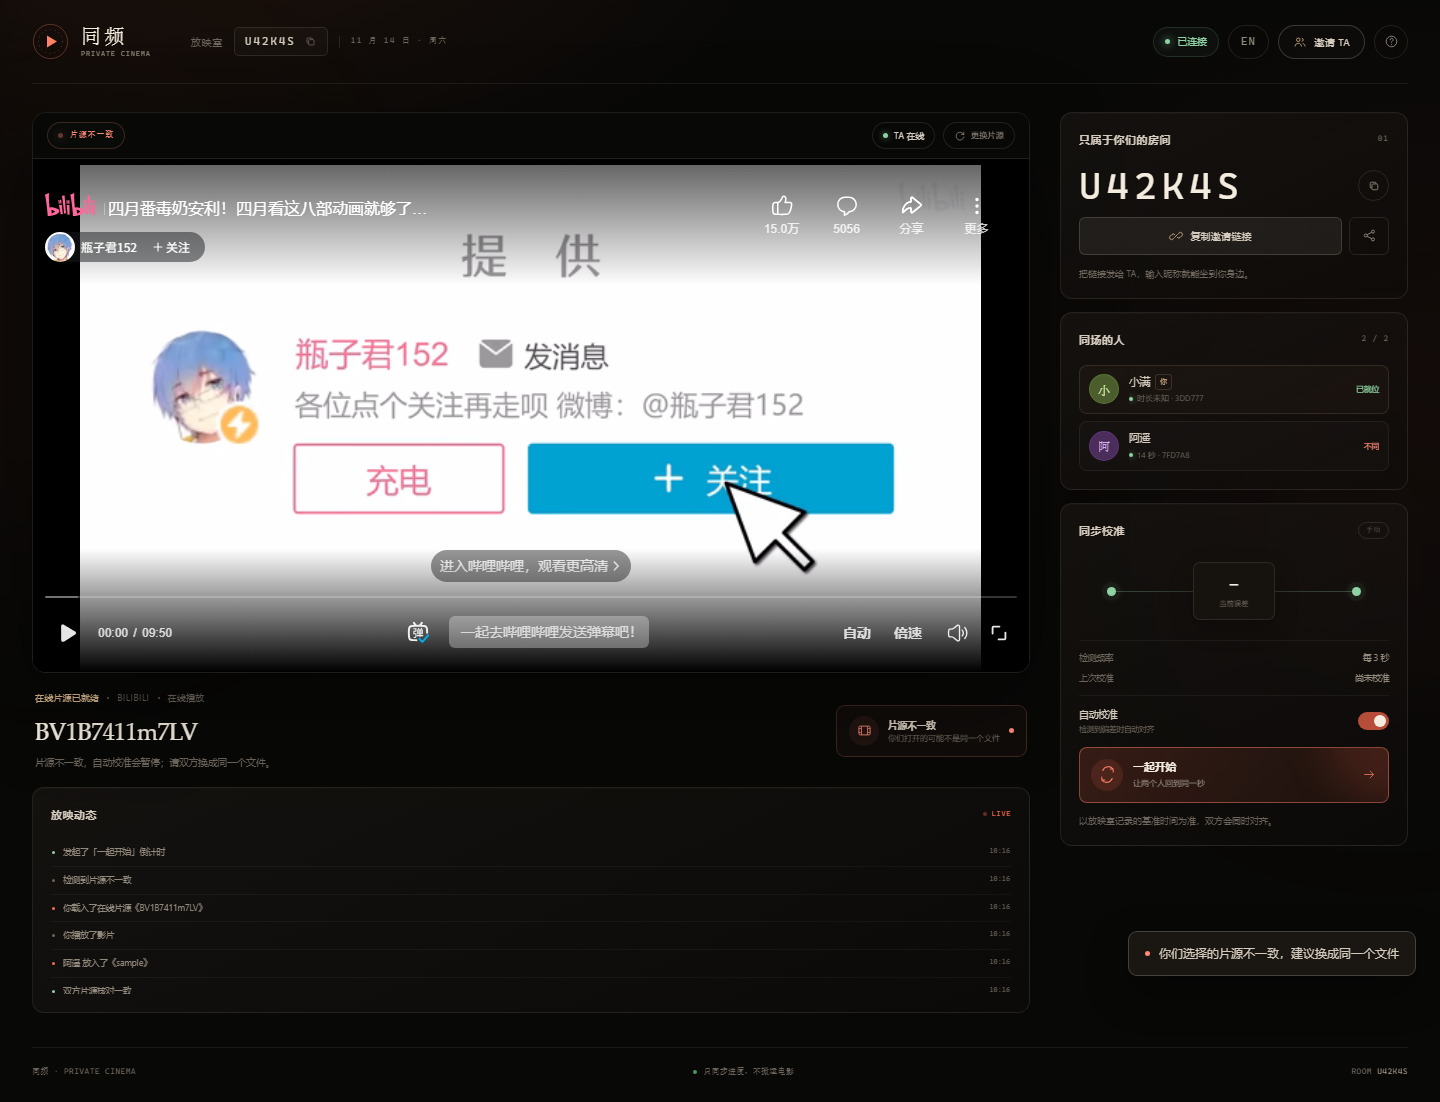
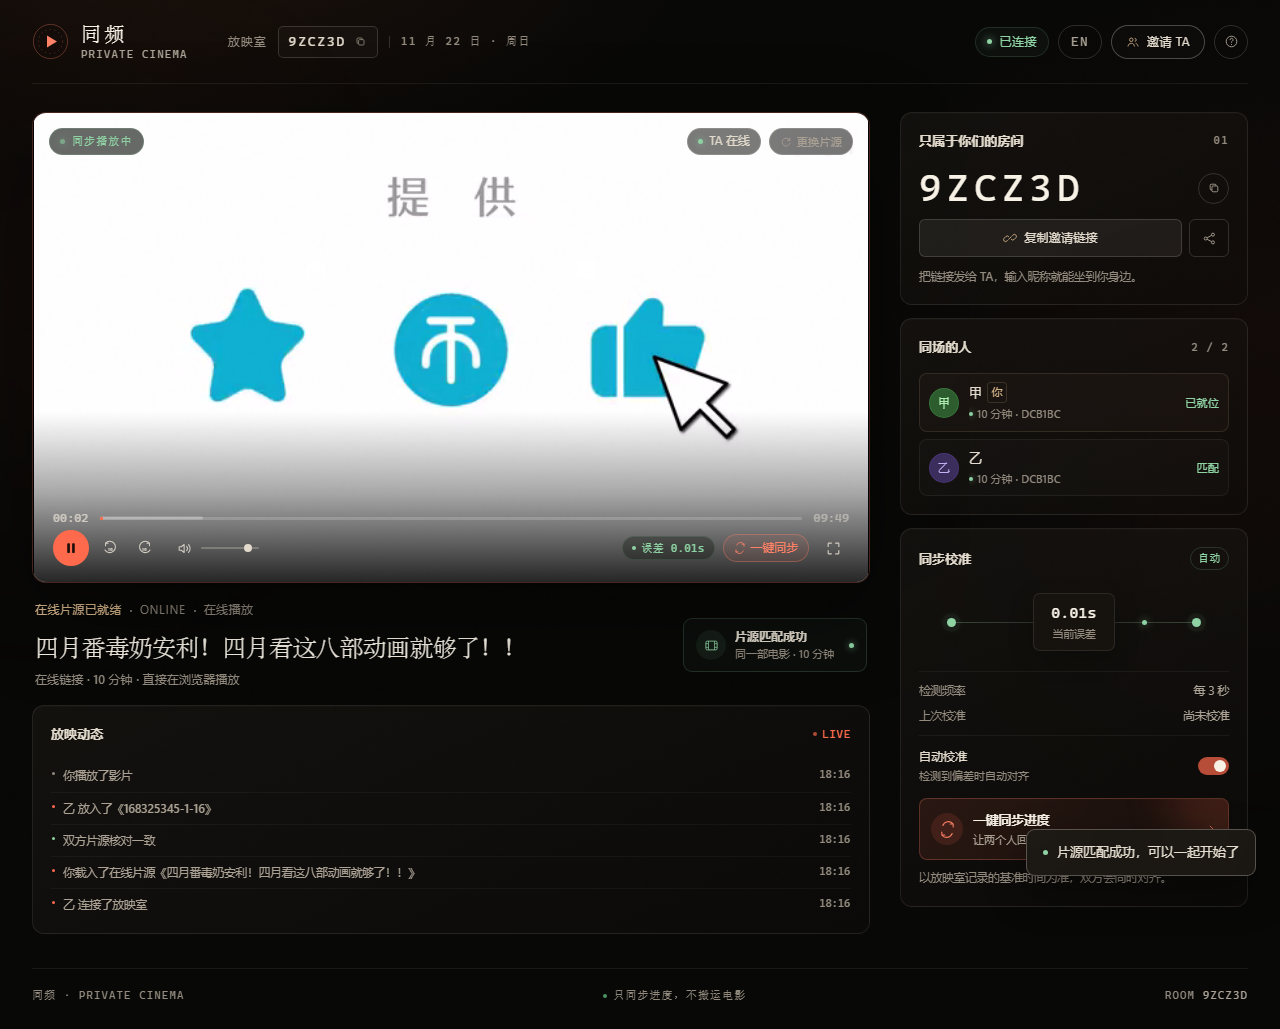
Bilibili full sync via official html5 API (no proxy, zero server bandwidth)
- Server resolves Bilibili links (BV/av/b23.tv short links, multi-page)
  through Bilibili own html5 playurl API with a cached visitor cookie:
  only ~20KB of JSON metadata per resolve, the returned mp4 is
  Referer-free with open CORS, so browsers stream it directly from
  Bilibili CDN - no video traffic touches our server
- Bilibili links now route to the resolver instead of the iframe embed,
  upgrading them from countdown-only to full play/pause/seek/auto-sync
- Resolution capped at 720p (free-tier API limit), documented in README
- Tests: clean-room two-browser flow verifies resolve, auto-adoption,
  real playback sync (~0.06s drift); b23.tv routing hint covered

diff --git a/tools/test-features.js b/tools/test-features.js
@@ -124,7 +124,11 @@ function startMediaServer() {
 
     await pageA.fill('#source-url', 'https://www.bilibili.com/video/BV1B7411m7LV');
     await sleep(250);
-    check('bilibili link detected', /Bilibili/.test(await pageA.locator('#source-platform').innerText()), await pageA.locator('#source-platform').innerText());
+    check('bilibili routes to full sync', /解析直链/.test(await pageA.locator('#source-platform').innerText()), await pageA.locator('#source-platform').innerText());
+
+    await pageA.fill('#source-url', 'https://b23.tv/abc123');
+    await sleep(250);
+    check('b23 short link accepted', /解析直链|http/i.test(await pageA.locator('#source-platform').innerText()), await pageA.locator('#source-platform').innerText());
 
     await pageA.fill('#source-url', 'https://www.netflix.com/watch/80100172');
     await sleep(250);
@@ -181,26 +185,58 @@ function startMediaServer() {
 
     check('no browser errors', errors.length === 0, errors.join(' | '));
 
-    /* ---------- 平台嵌入 + 一起开始倒计时 ---------- */
-    await pageA.click('#replace-button');
-    await pageA.waitForSelector('#source-modal:not(.is-hidden)', { timeout: 5000 });
-    await pageA.fill('#source-url', 'https://www.bilibili.com/video/BV1B7411m7LV?p=1');
-    await pageA.click('#source-submit');
-    await pageA.waitForFunction(() => document.getElementById('embed-player').src.includes('player.bilibili.com'), { timeout: 15000 });
-    check('bilibili embed loaded', true);
-    check('native controls hidden for embed', await pageA.evaluate(() => document.getElementById('video-controls').classList.contains('is-hidden')));
+    /* ---------- Bilibili 直链完整同步（新房间，依赖外网） ---------- */
+    const ctxAB = await browser.newContext({ viewport: { width: 1280, height: 900 }, locale: 'zh-CN' });
+    const ctxBB = await browser.newContext({ viewport: { width: 1280, height: 900 }, locale: 'zh-CN' });
+    const pageAB = await ctxAB.newPage();
+    const pageBB = await ctxBB.newPage();
+    for (const [label, page] of [['AB', pageAB], ['BB', pageBB]]) {
+      page.on('pageerror', (error) => errors.push(`${label} pageerror: ${error.message}`));
+    }
+    try {
+      await pageAB.goto(BASE, { waitUntil: 'networkidle' });
+      await pageAB.fill('#nickname', '甲');
+      await pageAB.click('#submit-button');
+      await pageAB.waitForURL(/\/room\/[A-Z0-9]{6}$/, { timeout: 10000 });
+      const biliRoom = pageAB.url().split('/').pop();
+      await pageAB.waitForSelector('#connection-pill:not(.is-connecting)', { timeout: 10000 });
+      await pageBB.goto(`${BASE}/room/${biliRoom}`, { waitUntil: 'domcontentloaded' });
+      await pageBB.waitForSelector('#entry-overlay:not(.is-hidden)');
+      await pageBB.fill('#entry-name', '乙');
+      await pageBB.click('#entry-submit');
+      await pageBB.waitForSelector('#entry-overlay.is-hidden', { state: 'hidden', timeout: 8000 });
 
-    const togetherLabel = await pageA.locator('#manual-sync strong').innerText();
-    check('manual sync becomes start together', /一起开始/.test(togetherLabel), togetherLabel);
+      await pageAB.click('#url-open');
+      await pageAB.waitForSelector('#source-modal:not(.is-hidden)', { timeout: 5000 });
+      await pageAB.fill('#source-url', 'https://www.bilibili.com/video/BV1B7411m7LV');
+      await sleep(250);
+      check('bilibili link routes to server resolve', /解析直链/.test(await pageAB.locator('#source-platform').innerText()), await pageAB.locator('#source-platform').innerText());
+      await pageAB.click('#source-submit');
 
-    await pageA.click('#manual-sync');
-    await pageA.waitForSelector('#countdown-card:not(.is-hidden)', { timeout: 5000 });
-    check('countdown shows on initiator', /[0-9]|▶/.test(await pageA.locator('#countdown-number').innerText()), await pageA.locator('#countdown-number').innerText());
-    await pageB.waitForSelector('#countdown-card:not(.is-hidden)', { timeout: 5000 });
-    check('peer also sees the countdown', true);
-    await sleep(4200);
-    check('countdown hides itself', await pageA.evaluate(() => document.getElementById('countdown-card').classList.contains('is-hidden')));
-    await pageA.screenshot({ path: path.join(SHOTS, 'room-embed.png'), fullPage: true });
+      await pageAB.waitForFunction(() => document.getElementById('player').currentSrc.includes('upos-') || document.getElementById('player').currentSrc.includes('.mp4'), { timeout: 30000 });
+      check('bilibili mp4 plays in native player', true);
+      const metaA = await pageAB.evaluate(() => ({ dur: document.getElementById('player').duration, title: document.getElementById('film-title').textContent }));
+      check('bilibili title from API', metaA.title.includes('四月') || metaA.title.length > 2, JSON.stringify(metaA));
+      check('bilibili duration real', Number.isFinite(metaA.dur) && metaA.dur > 60, String(metaA.dur));
+
+      await pageBB.waitForFunction(() => document.getElementById('player').currentSrc.includes('upos-') || document.getElementById('player').currentSrc.includes('.mp4'), { timeout: 40000 });
+      check('peer auto-adopted bilibili stream', true);
+
+      await pageAB.click('#play-button');
+      await sleep(2800);
+      const bilisync = await Promise.all([pageAB, pageBB].map((page) => page.evaluate(() => ({
+        paused: document.getElementById('player').paused,
+        time: document.getElementById('player').currentTime,
+      }))));
+      check('bilibili play syncs', bilisync.every((item) => !item.paused), JSON.stringify(bilisync));
+      check('bilibili drift is low', Math.abs(bilisync[0].time - bilisync[1].time) < 1.5, JSON.stringify(bilisync));
+      await pageAB.screenshot({ path: path.join(SHOTS, 'room-bilibili.png'), fullPage: true });
+    } catch (error) {
+      check('bilibili mp4 plays in native player', false, `skipped: ${error.message.split('\n')[0]}`);
+    } finally {
+      await ctxAB.close();
+      await ctxBB.close();
+    }
 
     /* ---------- YouTube 适配（依赖外网，失败只记录不抛出） ---------- */
     await pageA.click('#replace-button');

diff --git a/lib/resolve.js b/lib/resolve.js
@@ -25,6 +25,143 @@ const CACHE_MAX = 200;
 
 const ytDlpState = { disabled: false, checked: false };
 
+/* ---------------- Bilibili html5 直链（免代理，浏览器可直接播放） ---------------- */
+
+const BILI_UA =
+  'Mozilla/5.0 (Windows NT 10.0; Win64; x64) AppleWebKit/537.36 (KHTML, like Gecko) ' +
+  'Chrome/122.0.0.0 Safari/537.36';
+
+let biliCookie = null;
+let biliCookieAt = 0;
+const BILI_COOKIE_TTL_MS = 12 * 60 * 60 * 1000;
+
+async function ensureBiliCookie() {
+  if (biliCookie && Date.now() - biliCookieAt < BILI_COOKIE_TTL_MS) return biliCookie;
+  const controller = new AbortController();
+  const timer = setTimeout(() => controller.abort(), 10000);
+  try {
+    const response = await fetch('https://api.bilibili.com/x/frontend/finger/spi', {
+      headers: { 'User-Agent': BILI_UA, Referer: 'https://www.bilibili.com/' },
+      signal: controller.signal,
+    });
+    const data = await response.json();
+    if (data && data.data && data.data.b_3) {
+      biliCookie = `buvid3=${data.data.b_3}; buvid4=${data.data.b_4 || ''}`;
+      biliCookieAt = Date.now();
+      return biliCookie;
+    }
+  } catch {
+    // fall through
+  } finally {
+    clearTimeout(timer);
+  }
+  return biliCookie || '';
+}
+
+function parseBiliTarget(url) {
+  let parsed;
+  try {
+    parsed = new URL(url);
+  } catch {
+    return null;
+  }
+  const host = parsed.hostname.replace(/^www\.|^m\./i, '').toLowerCase();
+  if (host !== 'bilibili.com' && host !== 'b23.tv') return null;
+
+  const bv = parsed.pathname.match(/\/(BV[0-9A-Za-z]{8,})/);
+  const av = parsed.pathname.match(/\/av(\d+)/i);
+  const queryBv = parsed.searchParams.get('bvid');
+  const page = Number(parsed.searchParams.get('p')) || 1;
+  if (bv) return { id: bv[1], kind: 'bvid', page };
+  if (av) return { id: `av${av[1]}`, kind: 'aid', page };
+  if (queryBv) return { id: queryBv, kind: 'bvid', page };
+  return { redirect: true, url };
+}
+
+async function followBiliRedirect(url) {
+  const controller = new AbortController();
+  const timer = setTimeout(() => controller.abort(), 10000);
+  try {
+    const response = await fetch(url, {
+      redirect: 'follow',
+      headers: { 'User-Agent': BILI_UA },
+      signal: controller.signal,
+    });
+    return response.url || url;
+  } catch {
+    return url;
+  } finally {
+    clearTimeout(timer);
+  }
+}
+
+async function resolveBilibili(url) {
+  let target = parseBiliTarget(url);
+  if (!target) return null;
+  if (target.redirect) {
+    target = parseBiliTarget(await followBiliRedirect(target.url));
+    if (!target || target.redirect) return null;
+  }
+
+  const cookie = await ensureBiliCookie();
+  const headers = {
+    'User-Agent': BILI_UA,
+    Referer: 'https://www.bilibili.com/',
+    ...(cookie ? { Cookie: cookie } : {}),
+  };
+
+  const idQuery = target.kind === 'bvid' ? `bvid=${target.id}` : `aid=${target.id.replace('av', '')}`;
+  const controller = new AbortController();
+  const timer = setTimeout(() => controller.abort(), 15000);
+  try {
+    const viewResponse = await fetch(
+      `https://api.bilibili.com/x/web-interface/view?${idQuery}`,
+      { headers, signal: controller.signal },
+    );
+    const view = await viewResponse.json();
+    if (!view || view.code !== 0 || !view.data) return null;
+
+    const pages = Array.isArray(view.data.pages) ? view.data.pages : [];
+    const page = Math.min(Math.max(1, target.page), Math.max(1, pages.length));
+    const cid = pages.length ? pages[page - 1].cid : view.data.cid;
+    const title = pages.length > 1
+      ? `${view.data.title} P${page}:${pages[page - 1].part || ''}`
+      : view.data.title;
+
+    const playResponse = await fetch(
+      `https://api.bilibili.com/x/player/playurl?${idQuery}&cid=${cid}&qn=64&platform=html5&high_quality=1`,
+      { headers, signal: controller.signal },
+    );
+    const play = await playResponse.json();
+    if (!play || play.code !== 0 || !play.data || !Array.isArray(play.data.durl) || !play.data.durl.length) {
+      return null;
+    }
+
+    const stream = play.data.durl[0];
+    if (!/^https?:\/\//i.test(stream.url || '')) return null;
+
+    return {
+      ok: true,
+      streams: [{
+        url: stream.url,
+        protocol: 'https',
+        ext: 'mp4',
+        height: 720,
+        needsHeaders: false,
+        live: false,
+        via: 'bilibili-html5',
+      }],
+      title: String(title || '').slice(0, 120),
+      thumbnail: String(view.data.pic || ''),
+      note: '',
+    };
+  } catch {
+    return null;
+  } finally {
+    clearTimeout(timer);
+  }
+}
+
 function getCached(key) {
   const hit = cache.get(key);
   if (!hit) return null;
@@ -291,6 +428,13 @@ async function resolveGeneric(url) {
 async function resolvePage(url) {
   const cached = getCached(url);
   if (cached) return cached;
+
+  // Bilibili：html5 接口可拿免 Referer 的 mp4 直链，浏览器可直接完整同步播放
+  const fromBili = await resolveBilibili(url);
+  if (fromBili) {
+    setCached(url, fromBili);
+    return fromBili;
+  }
 
   const fromYtDlp = pickFromInfo(await runYtDlp(url));
   if (fromYtDlp) {

diff --git a/public/js/room.js b/public/js/room.js
@@ -1628,22 +1628,6 @@
     return match ? match[1] : '';
   }
 
-  function bilibiliInfo(parsed) {
-    const bv = parsed.pathname.match(/\/(BV[0-9A-Za-z]{8,})/);
-    if (bv) {
-      const page = parsed.searchParams.get('p') || '1';
-      return { query: `bvid=${bv[1]}&p=${Number(page) || 1}`, label: bv[1] };
-    }
-    const av = parsed.pathname.match(/\/av(\d+)/i);
-    if (av) {
-      const page = parsed.searchParams.get('p') || '1';
-      return { query: `aid=${av[1]}&p=${Number(page) || 1}`, label: `av${av[1]}` };
-    }
-    const queryBv = parsed.searchParams.get('bvid');
-    if (queryBv) return { query: `bvid=${queryBv}&p=1`, label: queryBv };
-    return null;
-  }
-
   function parsePlatformLink(raw) {
     const input = String(raw || '').trim();
     if (!input) return { error: t('请输入视频链接') };
@@ -1670,19 +1654,9 @@
       };
     }
 
-    if (host === 'b23.tv') {
-      return { error: t('b23.tv 短链无法直接识别，请先在浏览器打开，再复制完整的 Bilibili 视频链接。') };
-    }
-
-    if (/(^|\.)bilibili\.com$/.test(host)) {
-      const info = bilibiliInfo(parsed);
-      if (!info) return { error: t('没有识别出 Bilibili 视频号，请粘贴含 BV 号或 av 号的视频链接。') };
-      return {
-        platform: 'bilibili',
-        url,
-        label: info.label,
-        embedUrl: `https://player.bilibili.com/player.html?${info.query}&autoplay=0&danmaku=0&high_quality=1`,
-      };
+    // Bilibili（含 b23.tv 短链）：服务器解析出 mp4 直链，原生播放器完整同步
+    if (host === 'b23.tv' || /(^|\.)bilibili\.com$/.test(host)) {
+      return { platform: 'page', url };
     }
 
     if (/(^|\.)vimeo\.com$/.test(host)) {
@@ -2110,7 +2084,7 @@
     clearSourceError();
     destroyYouTubePlayer();
     if (isNativePlayer() && !dom.player.paused) dom.player.pause();
-    const platformName = parsed.platform === 'bilibili' ? 'Bilibili' : 'Vimeo';
+    const platformName = 'Vimeo';
     const name = parsed.label || platformName;
     dom.embedPlayer.src = parsed.embedUrl;
     applySourceState({
@@ -2215,7 +2189,7 @@
       return Promise.resolve(false);
     }
     if (parsed.platform === 'youtube') return loadYouTubeSource(parsed, options);
-    if (parsed.platform === 'bilibili' || parsed.platform === 'vimeo') return Promise.resolve(loadEmbedSource(parsed, options));
+    if (parsed.platform === 'vimeo') return Promise.resolve(loadEmbedSource(parsed, options));
     if (parsed.platform === 'page') return resolvePageSource(parsed, options);
     return loadDirectSource(parsed, options);
   }
@@ -2251,10 +2225,10 @@
 
   const PLATFORM_HINTS = {
     youtube: 'YouTube · 支持完整同步',
-    bilibili: 'Bilibili · 仅嵌入，用「一起开始」对齐',
+    bilibili: 'Bilibili · 解析直链，完整同步',
     vimeo: 'Vimeo · 仅嵌入，用「一起开始」对齐',
     direct: '视频直链 · 支持完整同步',
-    page: '网页视频 · 服务器尝试解析直链',
+    page: '网页视频 · 服务器解析直链后完整同步',
   };
 
   function updatePlatformHint() {

diff --git a/public/room.html b/public/room.html
@@ -410,8 +410,7 @@
       </button>
       <p class="dialog-kicker">PLAY FROM THE INTERNET</p>
       <h2 id="source-title">载入在线视频</h2>
-      <p class="dialog-copy">粘贴视频网站链接，或直接粘贴视频文件链接。支持 YouTube、Bilibili、Vimeo 以及 MP4 / WebM / HLS 直链。</p>
-      <form id="source-form">
+      <p class="dialog-copy">粘贴视频网站链接，或直接粘贴视频文件链接。支持 YouTube、Bilibili、Vimeo 以及 MP4 / WebM / HLS 直链。</p>      <form id="source-form">
         <label class="invite-link-field">
           <span>视频链接</span>
           <div>
@@ -428,7 +427,7 @@
           </button>
         </div>
       </form>
-      <p class="dialog-footnote">YouTube 支持完整同步；Bilibili 等平台只能嵌入播放，用「一起开始」倒计时对齐。</p>
+      <p class="dialog-footnote">YouTube 与 Bilibili 支持完整同步；Vimeo 嵌入播放。解析清晰度以源站免登录上限为准。</p>
     </section>
   </div>
 

diff --git a/public/js/i18n.js b/public/js/i18n.js
@@ -301,7 +301,9 @@
     'Bilibili · 仅嵌入，用「一起开始」对齐': 'Bilibili · embed only, align with “Start together”',
     'Vimeo · 仅嵌入，用「一起开始」对齐': 'Vimeo · embed only, align with “Start together”',
     '视频直链 · 支持完整同步': 'Direct link · full sync',
-    '网页视频 · 服务器尝试解析直链': 'Web page · server will try to find a stream',
+    '网页视频 · 服务器解析直链后完整同步': 'Web page · server finds the stream, then full sync',
+    'YouTube 与 Bilibili 支持完整同步；Vimeo 嵌入播放。解析清晰度以源站免登录上限为准。':
+      'YouTube and Bilibili sync fully; Vimeo is embed-only. Resolution is capped by the source site.',
     '正在解析网页里的视频…': 'Looking for a video stream in that page…',
     '没能解析这个网页里的视频，可以换一个来源或使用直链。':
       'No video stream found in that page. Try another source or a direct link.',

diff --git a/README.md b/README.md
@@ -13,7 +13,7 @@
 ## 功能
 
 - 六位房间码 / 邀请链接，两人入座，无需注册
-- 三种片源：本地视频（MP4 / WebM / MOV 等）、在线直链（MP4 / WebM / HLS）、流媒体平台链接（YouTube 完整同步；Bilibili / Vimeo 嵌入播放）
+- 三种片源：本地视频（MP4 / WebM / MOV 等）、在线直链（MP4 / WebM / HLS）、流媒体平台链接（YouTube、Bilibili 完整同步；Vimeo 嵌入播放）
 - 粘贴其他视频网站页面链接时，服务器会尝试解析出可直接播放的流地址
 - 一方粘贴链接后，另一方会自动载入同一条链接
 - 「一起开始」倒计时，让无法程序化控制的平台也能同时起播
@@ -32,9 +32,9 @@
 
 ![YouTube 同步](docs/preview-room-youtube.png)
 
-Bilibili 等平台以嵌入播放 +「一起开始」倒计时对齐：
+Bilibili 链接同样完整同步（服务器解析直链，浏览器直连 CDN）：
 
-![Bilibili 嵌入](docs/preview-room-bilibili.png)
+![Bilibili 同步](docs/preview-room-bilibili.png)
 
 英文界面：
 
@@ -106,7 +106,8 @@ npm start
 | --- | --- | --- |
 | 视频直链 | `https://cdn.example.com/movie.mp4`、`.webm`、`.m3u8`（HLS） | 完整同步：播放、暂停、跳转、自动校准 |
 | YouTube | `https://www.youtube.com/watch?v=…`、`youtu.be/…`、Short（Shorts） | 完整同步：通过官方 IFrame API 控制并读取进度 |
-| Bilibili / Vimeo | `https://www.bilibili.com/video/BV…`、`https://vimeo.com/…` | **仅嵌入**：平台未提供可控接口，使用「一起开始」倒计时同时按下播放 |
+| Bilibili | `https://www.bilibili.com/video/BV…`（含 `b23.tv` 短链、av 号、多 P） | 完整同步：服务器经 html5 接口解析出免 Referer 的 mp4 直链，浏览器直接播放（清晰度上限 720p，为免登录接口的固有限制） |
+| Vimeo | `https://vimeo.com/…` | **仅嵌入**：平台未提供可控接口，使用「一起开始」倒计时同时按下播放 |
 | 其他视频网站页面 | 例如 `https://example.com/video/12345` | 服务器尝试解析出直链（见下），成功后按直链完整同步 |
 
 ### 网页视频解析（方案 A：只解析，不代理）
@@ -199,7 +200,9 @@ npm run test:e2e
 - 浏览器能否播放取决于文件编码，推荐 MP4（H.264 + AAC）或 WebM（VP8/VP9）。
 - HLS 链接依赖 CDN 上的 hls.js；若该 CDN 被阻断，`.m3u8` 将无法播放，MP4 / WebM 直链不受影响。
 - YouTube 依赖官方 IFrame API（`youtube.com/iframe_api`）与可嵌入的视频；地区限制、版权限制、禁止嵌入的视频无法播放。
-- Bilibili / Vimeo 只能嵌入，无法读取或控制播放进度，因此用「一起开始」倒计时对齐，不做自动校准。
+- Bilibili 解析走 B站官方 html5 接口：服务器只调用两次 JSON API（合计约 20KB 元数据），拿到 mp4 直链后由**浏览器直连 B站 CDN** 播放，视频流量不经过本站服务器。
+- Bilibili 免登录接口清晰度上限 720p，且不含弹幕；需要更高清晰度时可双方换用本地文件。
+- Vimeo 只能嵌入，无法读取或控制播放进度，因此用「一起开始」倒计时对齐，不做自动校准。
 - 网页解析依赖外网可达与 yt-dlp；Render 免费层出站带宽有限，但因为**只解析不代理**，只有解析时的 HTML 请求会计入。
 - 受 DRM 保护的平台（Netflix、Disney+、爱奇艺、优酷等）无法支持，浏览器不允许第三方控制其播放器。
 - 房间最多两人，这是产品设定；离开后空位保留约 12 秒以便刷新重连。
